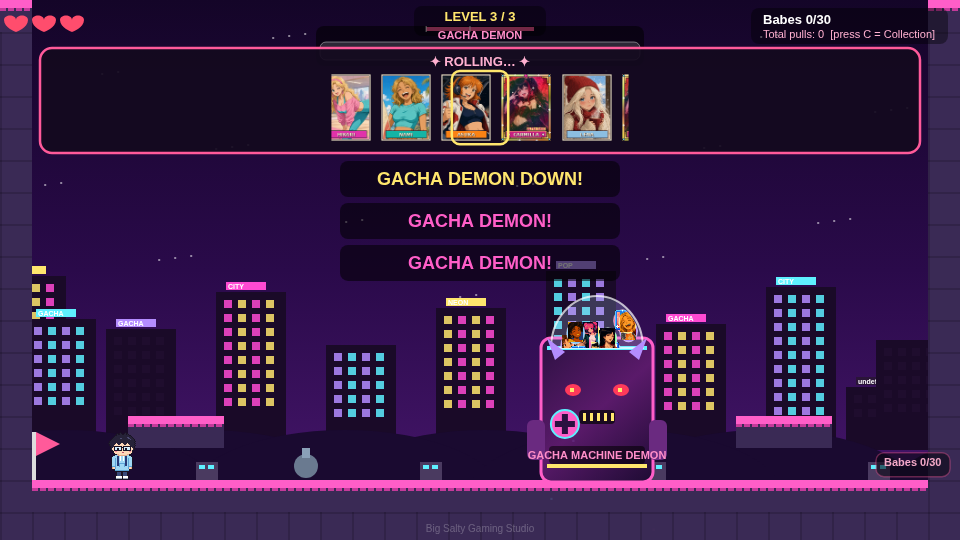
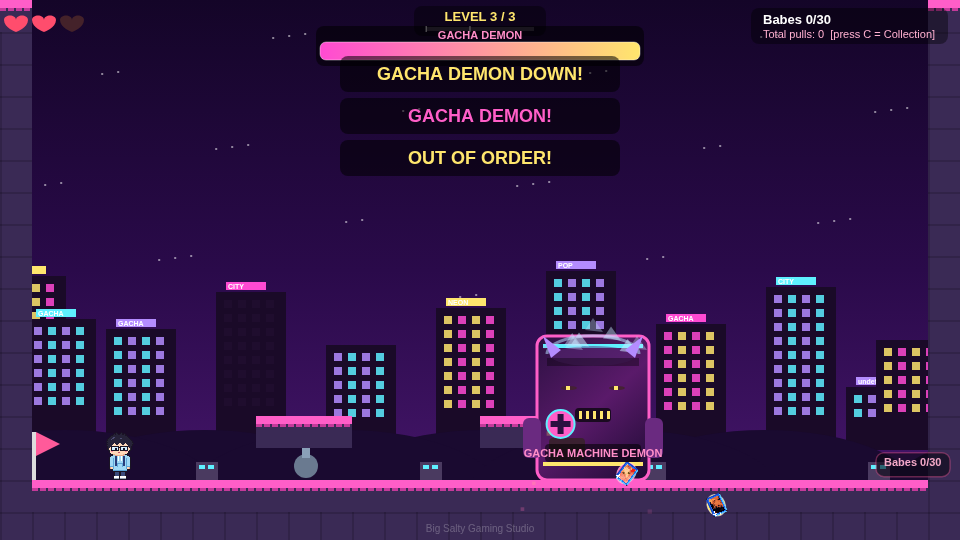
Jackie QA: one-way ledges, boss burst/ledges/minions, gallery-only reset, L1 spawn
- Floating ledges are one-way so L3 rooftop decor is walkable (~x174).
- Boss defeat shatters the dome and scatters capsules; ledges sit by the crank.
- Minion waves require a clear (45s failsafe only) before vulnerable.
- Reset is gallery-only (no P); confirm uses Reset/Cancel buttons.
- L1 opener walker patrol starts past the spawn checkpoint.
- Quieted cry_death / AudioContext console.log spam.

diff --git a/index.html b/index.html
@@ -483,7 +483,6 @@ function playDeathCry() {
       cryAudio.startedAt = actx.currentTime;
       duckBgm(true);
       src.start(0);
-      console.log("[HBC] cry_death start (WebAudio)", { wallMs: wall, ctxT: cryAudio.startedAt, animT: 0 });
       return;
     }
   } catch (e) {
@@ -498,7 +497,6 @@ function playDeathCry() {
   duckBgm(true);
   const p = cryHtmlAudio.play();
   if (p && p.catch) p.catch(() => {});
-  console.log("[HBC] cry_death start (HTMLAudio)", { wallMs: wall, animT: 0 });
 }
 
 // ---------- Background music ----------
@@ -620,7 +618,6 @@ function maybeStartCryLoop() {
       cryGain.connect(masterGain || actx.destination);
       cryAudio.loopSource = src;
       src.start(0);
-      console.log("[HBC] cry_death_loop start (overflow)");
       return;
     }
   } catch (_) {}
@@ -922,7 +919,7 @@ function congratsBlocks(e) {
   return (congrats || performance.now() - congratsClosedAt < 300) && !(t && t.closest && t.closest("#muteBtn"));
 }
 function resetHit(clientX, clientY) {
-  if (!resetConfirm || !isTouch) return null;
+  if (!resetConfirm) return null;
   const { x, y } = canvasCoords(clientX, clientY);
   const L = resetConfirmLayout();
   const hit = (b) => x >= b.x - 8 && x <= b.x + b.w + 8 && y >= b.y - 8 && y <= b.y + b.h + 8;
@@ -1471,7 +1468,7 @@ const SECTIONS = {
       G(99, 8), P(109, 13, 5) ],
     picks: [[8, 13], [28, 9], [58, 5], [71, 9], [89, 9]],
     enemies: [
-      WK(10, 15, 2, 16, 60), WK(44, 15, 40, 50, 70), HP(34, 13, 33, 39, 40, 1, 0),
+      WK(14, 15, 10, 22, 60), WK(44, 15, 40, 50, 70), HP(34, 13, 33, 39, 40, 1, 0),
       WK(86, 15, 80, 94, 80), HP(70, 11, 69, 72, 30, 1, 0.5), WK(110, 13, 109, 113.875, 55), HP(102, 15, 99, 106, 35, 1, 1.2),
     ],
     cps: [2, 42, 82] },
@@ -1509,8 +1506,8 @@ const SECTIONS = {
       G(0, 18), P(6, 13, 3), P(11, 12, 3) ],
     picks: [[7, 11], [12, 10]], enemies: [], cps: [2] },
   // Boss arena (~1 screen / 30 tiles). Entrance CP; goal unlocks after defeat.
-  // Side ledges at y=13 (2 tiles / 64px) — within max jump ~2.73 tiles; old y=11 was unreachable.
-  bossArena: { w: 30, plats: [G(0, 30), P(4, 13, 3), P(23, 13, 3)],
+  // Side ledges at y=13 (2 tiles). P(15,13) sits by the crank for stomps.
+  bossArena: { w: 30, plats: [G(0, 30), P(8, 13, 3), P(15, 13, 3)],
     picks: [], enemies: [], cps: [1], goal: 26 },
 };
 
@@ -1790,14 +1787,13 @@ function dismissCongrats(force) {
   // Rolls earned meanwhile resume now
   if (!slot && slotQueue > 0) { slotQueue--; if (!beginSlotRoll()) slotQueue = 0; }
 }
-// Collection reset confirm (desktop P, or Reset button in the gallery on mobile)
+// Collection reset: gallery "Reset collection" button → confirm popup (no P key).
 // Wipes babe counts + tray order + complete flag; keeps level progress and mute.
 let resetConfirm = null; // { t } while the confirm popup is up
 let resetToast = null;   // { t, dur } brief "Collection reset" after confirming
 const RESET_CONFIRM_GUARD = 0.25; // second P ignored this long (key-repeat / double-fire)
 function canOpenResetConfirm() {
-  // P must work from EVERY state — title, play, slot, gallery, death, win, congrats, boss…
-  return !resetConfirm;
+  return !resetConfirm && state === "collection";
 }
 function openResetConfirm() {
   if (!canOpenResetConfirm()) return false;
@@ -1835,10 +1831,10 @@ function confirmResetCollection() {
   try { sfx.lose(); } catch (e) {}
 }
 function resetConfirmLayout() {
-  const pw = 560, ph = isTouch ? 210 : 180;
+  const pw = 560, ph = 220;
   const px = (W - pw) / 2, py = (H - ph) / 2;
-  const bw = isTouch ? 180 : 0, bh = isTouch ? 52 : 0, gap = 24;
-  const btnY = py + ph - bh - 24;
+  const bw = 180, bh = 52, gap = 24;
+  const btnY = py + ph - bh - 22;
   return {
     pw, ph, px, py,
     resetBtn: { x: W / 2 - bw - gap / 2, y: btnY, w: bw, h: bh },
@@ -1855,27 +1851,21 @@ function drawResetConfirm() {
   roundRect(px, py, pw, ph, 16); ctx.stroke();
   ctx.textAlign = "center";
   ctx.fillStyle = "#ffe66d"; ctx.font = "bold 22px sans-serif";
-  ctx.fillText("Reset babe collection?", W / 2, py + 48);
+  ctx.fillText("Reset your babe collection?", W / 2, py + 48);
   ctx.fillStyle = "#ffb0d0"; ctx.font = "15px sans-serif";
-  if (isTouch) {
-    ctx.fillText("This clears every babe you've collected.", W / 2, py + 84);
-    ctx.fillText("Level progress and mute stay as they are.", W / 2, py + 108);
-    // Reset / Cancel buttons
-    const drawBtn = (b, label, fill, stroke) => {
-      ctx.fillStyle = fill; roundRect(b.x, b.y, b.w, b.h, 12); ctx.fill();
-      ctx.strokeStyle = stroke; ctx.lineWidth = 2; roundRect(b.x, b.y, b.w, b.h, 12); ctx.stroke();
-      ctx.fillStyle = "#fff"; ctx.font = "bold 18px sans-serif";
-      ctx.textBaseline = "middle"; ctx.fillText(label, b.x + b.w / 2, b.y + b.h / 2 + 1);
-      ctx.textBaseline = "alphabetic";
-    };
-    drawBtn(L.resetBtn, "Reset", "#e0457f", "#ffe66d");
-    drawBtn(L.cancelBtn, "Cancel", "#3a2a50", "#aaa");
-  } else {
-    ctx.fillText("Press P again to reset your babe collection.", W / 2, py + 88);
-    ctx.fillText("Press Space to cancel.", W / 2, py + 114);
-    ctx.fillStyle = "#888"; ctx.font = "12px sans-serif";
-    ctx.fillText("Level progress and mute stay as they are.", W / 2, py + 148);
-  }
+  ctx.fillText("This clears every babe you've collected.", W / 2, py + 84);
+  ctx.fillText("Level progress and mute stay as they are.", W / 2, py + 108);
+  ctx.fillStyle = "#888"; ctx.font = "12px sans-serif";
+  ctx.fillText(isTouch ? "Tap Cancel to keep your babes." : "Esc / Space cancels  ·  Enter confirms", W / 2, py + 132);
+  const drawBtn = (b, label, fill, stroke) => {
+    ctx.fillStyle = fill; roundRect(b.x, b.y, b.w, b.h, 12); ctx.fill();
+    ctx.strokeStyle = stroke; ctx.lineWidth = 2; roundRect(b.x, b.y, b.w, b.h, 12); ctx.stroke();
+    ctx.fillStyle = "#fff"; ctx.font = "bold 18px sans-serif";
+    ctx.textBaseline = "middle"; ctx.fillText(label, b.x + b.w / 2, b.y + b.h / 2 + 1);
+    ctx.textBaseline = "alphabetic";
+  };
+  drawBtn(L.resetBtn, "Reset", "#e0457f", "#ffe66d");
+  drawBtn(L.cancelBtn, "Cancel", "#3a2a50", "#aaa");
   ctx.restore();
 }
 function drawResetToast() {
@@ -1982,17 +1972,26 @@ function resetLevel(full) {
   cameraX = Math.max(0, player.x - W*0.35);
 }
 
-function solidAt(px, py, pw, ph) {
-  // AABB vs platform rects
+// Floating 1-tile ledges are one-way: walk/jump through from below/side, land from above.
+function isOneWayPlat(p) { return p.y < GROUND_Y && p.h === 1; }
+
+function solidAt(px, py, pw, ph, mode) {
+  // mode "land" includes one-way tops when falling; otherwise skip one-way (no side/ceiling block)
+  const land = mode === "land";
   for (const p of platforms) {
-    const x = p.x*TILE, y = p.y*TILE, w = p.w*TILE, h = p.h*TILE;
-    if (px < x+w && px+pw > x && py < y+h && py+ph > y) return {x,y,w,h};
+    const x = p.x * TILE, y = p.y * TILE, w = p.w * TILE, h = p.h * TILE;
+    if (!(px < x + w && px + pw > x && py < y + h && py + ph > y)) continue;
+    if (isOneWayPlat(p)) {
+      if (!land) continue;
+      return { x, y, w, h, oneWay: true };
+    }
+    return { x, y, w, h, oneWay: false };
   }
   return null;
 }
 
 function resolvePlayer(dt) {
-  // horizontal
+  const prevBottom = player.y + player.h;
   player.x += player.vx * dt;
   let hit = solidAt(player.x, player.y, player.w, player.h);
   if (hit) {
@@ -2000,23 +1999,21 @@ function resolvePlayer(dt) {
     else if (player.vx < 0) player.x = hit.x + hit.w;
     player.vx = 0;
   }
-  // vertical
   player.y += player.vy * dt;
   player.onGround = false;
-  hit = solidAt(player.x, player.y, player.w, player.h);
-  if (hit) {
-    if (player.vy > 0) {
+  if (player.vy >= 0) {
+    hit = solidAt(player.x, player.y, player.w, player.h, "land");
+    if (hit && (!hit.oneWay || prevBottom <= hit.y + 6)) {
       player.y = hit.y - player.h;
       player.vy = 0;
       player.onGround = true;
-    } else if (player.vy < 0) {
-      player.y = hit.y + hit.h;
-      player.vy = 0;
     }
+  } else {
+    hit = solidAt(player.x, player.y, player.w, player.h);
+    if (hit) { player.y = hit.y + hit.h; player.vy = 0; }
   }
-  // world bounds
   if (player.x < 0) { player.x = 0; player.vx = 0; }
-  if (player.x + player.w > LEVEL_W * TILE) { player.x = LEVEL_W*TILE - player.w; player.vx = 0; }
+  if (player.x + player.w > LEVEL_W * TILE) { player.x = LEVEL_W * TILE - player.w; player.vx = 0; }
 }
 
 function groundUnder(px, feetY) {
@@ -2385,7 +2382,8 @@ function resetBossFight() {
   // Clear fight-only state; keep position / arena / caps
   boss.hp = BOSS_HP; boss.phase = 0; boss.mode = "idle"; boss.modeT = 0; boss.nextAtk = 0;
   boss.beam = null; boss.coins = []; clearBossMinions();
-  boss.shake = 0; boss.flash = 0; boss.grin = 0; boss.rewardPending = false; boss.defeated = false;
+  boss.shake = 0; boss.flash = 0; boss.grin = 0; boss.rewardPending = false; boss.defeated = false; boss.domeBroken = false;
+  for (const c of boss.caps) { c.falling = false; delete c.wx; delete c.wy; delete c.vx; delete c.vy; }
   // Remove the temporary walls so the next entry re-locks cleanly
   if (boss.wallPlats.length) {
     platforms = platforms.filter(p => !boss.wallPlats.includes(p));
@@ -2503,8 +2501,21 @@ function hitBoss() {
 
 function beginBossDefeat() {
   boss.mode = "defeat"; boss.modeT = 0; boss.defeated = true;
-  boss.shake = 1.8; boss.beam = null; boss.coins = [];
+  boss.shake = 2.2; boss.beam = null; boss.coins = [];
+  boss.domeBroken = true;
+  for (const c of boss.caps) {
+    c.falling = true;
+    c.wx = boss.x + boss.w / 2 + Math.cos(c.a) * c.r;
+    c.wy = boss.y + 50 + Math.sin(c.a * 0.9) * (c.r * 0.55);
+    c.vx = (Math.random() - 0.5) * 420;
+    c.vy = -220 - Math.random() * 320;
+    c.spin = (Math.random() - 0.5) * 10;
+  }
   clearBossMinions();
+  for (let i = 0; i < 28; i++) {
+    spawnParticles(boss.x + 20 + Math.random() * 90, boss.y + 30 + Math.random() * 80,
+      ["#ff6ab0", "#7ec8ff", "#ffe66d", "#fff", "#b48cff"][i % 5], 1);
+  }
   addCallout("GACHA DEMON DOWN!", "#ffe66d");
   sfx.win();
 }
@@ -2529,8 +2540,12 @@ function updateBoss(dt) {
   if (boss.shake > 0) boss.shake -= dt;
   if (boss.grin > 0) boss.grin -= dt;
   if (boss.flash > 0) boss.flash -= dt;
-  // Capsule jumble
-  for (const c of boss.caps) { c.a += c.sp * dt; c.bob += dt * 3; }
+  for (const c of boss.caps) {
+    if (c.falling) {
+      c.vy += GRAV * 0.85 * dt; c.wx += c.vx * dt; c.wy += c.vy * dt; c.spin = (c.spin || 0) + dt * 8;
+      c.vx *= (1 - 0.4 * dt);
+    } else { c.a += c.sp * dt; c.bob += dt * 3; }
+  }
 
   // Lock when the player crosses the arena entrance
   if (!boss.locked && !boss.defeated && player.x + player.w / 2 >= boss.arenaL + 8) lockBossArena();
@@ -2589,8 +2604,9 @@ function updateBoss(dt) {
   } else if (boss.mode === "coins") {
     if (boss.coins.length === 0 && boss.modeT > 0.5) beginBossVulnerable();
   } else if (boss.mode === "minions") {
-    // Vulnerable once minions are gone, or after a timeout so the fight can't stall
-    if ((boss.minions.every(m => !m.alive) && boss.modeT > 0.6) || boss.modeT > 5.5) beginBossVulnerable();
+    // Must clear all spawned minions (long failsafe only)
+    const allDead = boss.minions.length === 0 || boss.minions.every(m => !m.alive);
+    if ((allDead && boss.modeT > 0.6) || boss.modeT > 45) beginBossVulnerable();
   } else if (boss.mode === "stunned") {
     if (boss.modeT >= BOSS_HIT_STUN) { boss.mode = "idle"; boss.modeT = 0; boss.nextAtk = 0.6; boss.flash = 0; }
   } else if (boss.mode === "vulnerable") {
@@ -2628,28 +2644,58 @@ function drawBoss() {
   // Neon trim stripes
   ctx.fillStyle = "#5ef0ff"; ctx.fillRect(bx + 14, by + 56, boss.w - 28, 4);
   ctx.fillStyle = "#ffe66d"; ctx.fillRect(bx + 14, by + boss.h - 18, boss.w - 28, 4);
-  // Glass dome
+  // Glass dome (intact) or shattered wreck on defeat
   const dx = bx + boss.w / 2, dy = by + 58, rx = 46, ry = 52;
-  ctx.beginPath(); ctx.ellipse(dx, dy, rx, ry, 0, Math.PI, 0); ctx.closePath();
-  ctx.fillStyle = "rgba(180,220,255,0.22)"; ctx.fill();
-  ctx.strokeStyle = "rgba(255,255,255,0.7)"; ctx.lineWidth = 2; ctx.stroke();
-  // Capsules with babe faces (15x20, smoothing off)
-  ctx.save();
-  ctx.beginPath(); ctx.ellipse(dx, dy, rx - 2, ry - 2, 0, Math.PI, 0); ctx.closePath(); ctx.clip();
-  for (const c of boss.caps) {
-    const px = dx + Math.cos(c.a) * c.r;
-    const py = dy - 8 + Math.sin(c.a * 0.9) * (c.r * 0.55) + Math.sin(c.bob) * 3;
-    ctx.fillStyle = c.col;
-    ctx.beginPath(); ctx.ellipse(px, py, 9, 11, 0, 0, Math.PI * 2); ctx.fill();
-    ctx.strokeStyle = "rgba(255,255,255,0.5)"; ctx.lineWidth = 1; ctx.stroke();
-    const babe = babeById(c.id);
-    if (babe) drawCard(babe, px - 7.5, py - 10, 15, 20, { iconOnly: true });
+  const wrecked = !!(boss.domeBroken || boss.mode === "defeat" || boss.mode === "done");
+  if (!wrecked) {
+    ctx.beginPath(); ctx.ellipse(dx, dy, rx, ry, 0, Math.PI, 0); ctx.closePath();
+    ctx.fillStyle = "rgba(180,220,255,0.22)"; ctx.fill();
+    ctx.strokeStyle = "rgba(255,255,255,0.7)"; ctx.lineWidth = 2; ctx.stroke();
+    ctx.save();
+    ctx.beginPath(); ctx.ellipse(dx, dy, rx - 2, ry - 2, 0, Math.PI, 0); ctx.closePath(); ctx.clip();
+    for (const c of boss.caps) {
+      const px = dx + Math.cos(c.a) * c.r;
+      const py = dy - 8 + Math.sin(c.a * 0.9) * (c.r * 0.55) + Math.sin(c.bob) * 3;
+      ctx.fillStyle = c.col;
+      ctx.beginPath(); ctx.ellipse(px, py, 9, 11, 0, 0, Math.PI * 2); ctx.fill();
+      ctx.strokeStyle = "rgba(255,255,255,0.5)"; ctx.lineWidth = 1; ctx.stroke();
+      const babe = babeById(c.id);
+      if (babe) drawCard(babe, px - 7.5, py - 10, 15, 20, { iconOnly: true });
+    }
+    ctx.restore();
+  } else {
+    ctx.strokeStyle = "rgba(180,220,255,0.55)"; ctx.lineWidth = 3;
+    ctx.beginPath(); ctx.ellipse(dx, dy + 8, rx, ry * 0.35, 0, Math.PI, 0); ctx.stroke();
+    ctx.fillStyle = "rgba(90,40,120,0.5)";
+    ctx.beginPath(); ctx.ellipse(dx, dy + 10, rx - 4, 10, 0, 0, Math.PI * 2); ctx.fill();
+    for (let i = 0; i < 7; i++) {
+      const ang = -Math.PI + (i / 6) * Math.PI;
+      const sx = dx + Math.cos(ang) * (20 + i * 4);
+      const sy = dy - 10 + Math.sin(ang) * 18 + (i % 3) * 6;
+      ctx.fillStyle = `rgba(200,230,255,${0.35 + (i % 3) * 0.1})`;
+      ctx.beginPath();
+      ctx.moveTo(sx, sy); ctx.lineTo(sx + 10, sy + 14); ctx.lineTo(sx - 8, sy + 12);
+      ctx.closePath(); ctx.fill();
+    }
+    ctx.fillStyle = "rgba(0,0,0,0.35)";
+    ctx.fillRect(bx + 18, by + 70, boss.w - 36, 8);
+    ctx.fillStyle = "#3a2030";
+    roundRect(bx + 20, by + 150, 36, 22, 4); ctx.fill();
+    for (const c of boss.caps) {
+      if (!c.falling || c.wy > GROUND_Y * TILE + 40) continue;
+      ctx.save(); ctx.translate(c.wx, c.wy); ctx.rotate(c.spin || 0);
+      ctx.fillStyle = c.col;
+      ctx.beginPath(); ctx.ellipse(0, 0, 9, 11, 0, 0, Math.PI * 2); ctx.fill();
+      ctx.strokeStyle = "rgba(255,255,255,0.5)"; ctx.lineWidth = 1; ctx.stroke();
+      const babe = babeById(c.id);
+      if (babe) drawCard(babe, -7.5, -10, 15, 20, { iconOnly: true });
+      ctx.restore();
+    }
   }
-  ctx.restore();
   // Demon face (stunned = cyan/white, vulnerable = dim, else hostile red)
   const stunned = boss.mode === "stunned";
-  const eyeY = by + 100, eyeOpen = (boss.mode === "vulnerable" || stunned) ? 3 : 6;
-  ctx.fillStyle = stunned ? "#5ef0ff" : boss.mode === "vulnerable" ? "#888" : "#ff3a5a";
+  const eyeY = by + 100, eyeOpen = wrecked ? 2 : ((boss.mode === "vulnerable" || stunned) ? 3 : 6);
+  ctx.fillStyle = wrecked ? "#442233" : stunned ? "#5ef0ff" : boss.mode === "vulnerable" ? "#888" : "#ff3a5a";
   ctx.beginPath(); ctx.ellipse(bx + 40, eyeY, 8, eyeOpen, 0, 0, Math.PI * 2); ctx.fill();
   ctx.beginPath(); ctx.ellipse(bx + boss.w - 40, eyeY, 8, eyeOpen, 0, 0, Math.PI * 2); ctx.fill();
   ctx.fillStyle = "#ffe66d";
@@ -3583,8 +3629,8 @@ function galleryFilteredList() {
 }
 
 function galleryResetBtn() {
-  // Top-right of the gallery — big enough for a thumb
-  return { x: W - 118, y: 14, w: 100, h: 36 };
+  // Top-right of the gallery — only reset entry point (P key removed)
+  return { x: W - 168, y: 12, w: 150, h: 36 };
 }
 function handleGalleryClick(sx, sy) {
   // Reset-confirm popup buttons (mobile) take priority over the gallery underneath
@@ -3691,7 +3737,7 @@ function drawCollection() {
     roundRect(rb.x, rb.y, rb.w, rb.h, 10); ctx.stroke();
     ctx.fillStyle = "#fff"; ctx.font = "bold 14px sans-serif";
     ctx.textAlign = "center"; ctx.textBaseline = "middle";
-    ctx.fillText("Reset", rb.x + rb.w / 2, rb.y + rb.h / 2 + 1);
+    ctx.fillText("Reset collection", rb.x + rb.w / 2, rb.y + rb.h / 2 + 1);
     ctx.textBaseline = "alphabetic"; ctx.textAlign = "center";
   }
   ctx.font = "bold 14px sans-serif";
@@ -3712,7 +3758,7 @@ function drawCollection() {
   }
   ctx.font = "11px sans-serif";
   ctx.fillStyle = "#888";
-  ctx.fillText((isTouch ? "Tap Reset to clear babes  ·  " : "P reset babes  ·  ") + "C / Esc close  ·  Wheel / arrows scroll  ·  1–6 filters", W / 2, H - 10);
+  ctx.fillText("Reset collection clears babes  ·  C / Esc close  ·  Wheel / arrows scroll  ·  1–6 filters", W / 2, H - 10);
 
   // Filter tabs
   const tabY = 62, tabH = 26, tabGap = 6;
@@ -4149,14 +4195,10 @@ function frame(dt) {
   // Reset confirm pauses the whole game (including congrats / death / boss / slots) and sits on top.
   if (resetConfirm) {
     resetConfirm.t += dt;
-    if (justPressed["p"]) confirmResetCollection();
+    if (justPressed["enter"]) confirmResetCollection();
     else if (justPressed[" "] || justPressed["escape"]) cancelResetConfirm();
     for (const k in justPressed) delete justPressed[k];
     keys[" "] = false; keys["enter"] = false;
-  } else if (justPressed["p"]) {
-    // P from ANY state — title, play, gallery, death, win, congrats, boss…
-    openResetConfirm();
-    for (const k in justPressed) delete justPressed[k];
   } else if (congrats) {
     congrats.t += dt;
     if (justPressed["enter"]) dismissCongrats();
@@ -4424,7 +4466,6 @@ preloadCardArt().then(() => {
 }).catch(e => console.warn("[HBC] card art preload", e));
 loadBgm();
 preloadCryAudio().then(() => {
-  console.log("[HBC] cry audio ready", { oneshot: cryAudio.oneshotUrl, loop: cryAudio.loopUrl, webaudio: !!cryAudio.oneshotBuf });
 }).catch(e => console.warn("[HBC] cry audio preload", e));
 requestAnimationFrame(loop);
 

diff --git a/README.md b/README.md
@@ -15,7 +15,7 @@ Single-file game: open `index.html` in Chrome or Safari (double-click works offl
 | Gallery scroll | Mouse wheel / arrows / on-screen ▲▼ |
 | Start | Enter / Space on title |
 | Restart (after win) | R or Enter |
-| Reset collection | **P** anywhere (confirm popup; Space/Cancel to abort) |
+| Reset collection | Gallery **Reset collection** button (confirm popup) |
 
 On touch devices, large on-screen buttons appear (← → Jump, Collection). Portrait and landscape both work — title screen notes you can use either. Tap title/win to start/restart; gallery supports swipe scroll and tap filters.
 
@@ -37,7 +37,7 @@ Open `index.html` (or host the file) on iOS Safari / Android Chrome. Viewport is
 - **Win**: babes gained this run (scrollable row) + totals.
 - **Save**: `hbc_collection_v1` counts map; also writes `hbc_collection_v2` wrapper (v1 still loaded/migrated).
 - **Level 3 — Gacha Machine Demon**: neon rooftop run-in then arena lock. Boss HP 3 (stomp the crank). Attacks: pity beam (low = jump / high = stay down), coin spit, Mini Oni / Mochi Slime minions. After each crank hit the boss is stunned ~1.15s (cyan/white, no contact damage) before the next attack. Reward roll is Rare-or-better (10:2 rare:ultra).
-- **Collection reset**: **P** opens a confirm popup from any state (title, play, slot, gallery, death, win, congrats, boss); freezes the frame underneath and resumes on Space/Cancel. Gallery also has a Reset button. Wipe is safe mid-death / mid-roll (no stale babe refs).
+- **Collection reset**: open the gallery (**C**) → **Reset collection** → confirm (Reset / Cancel). Clears babe counts, tray, and complete flag; keeps level progress and mute.
 
 ## Files
 
